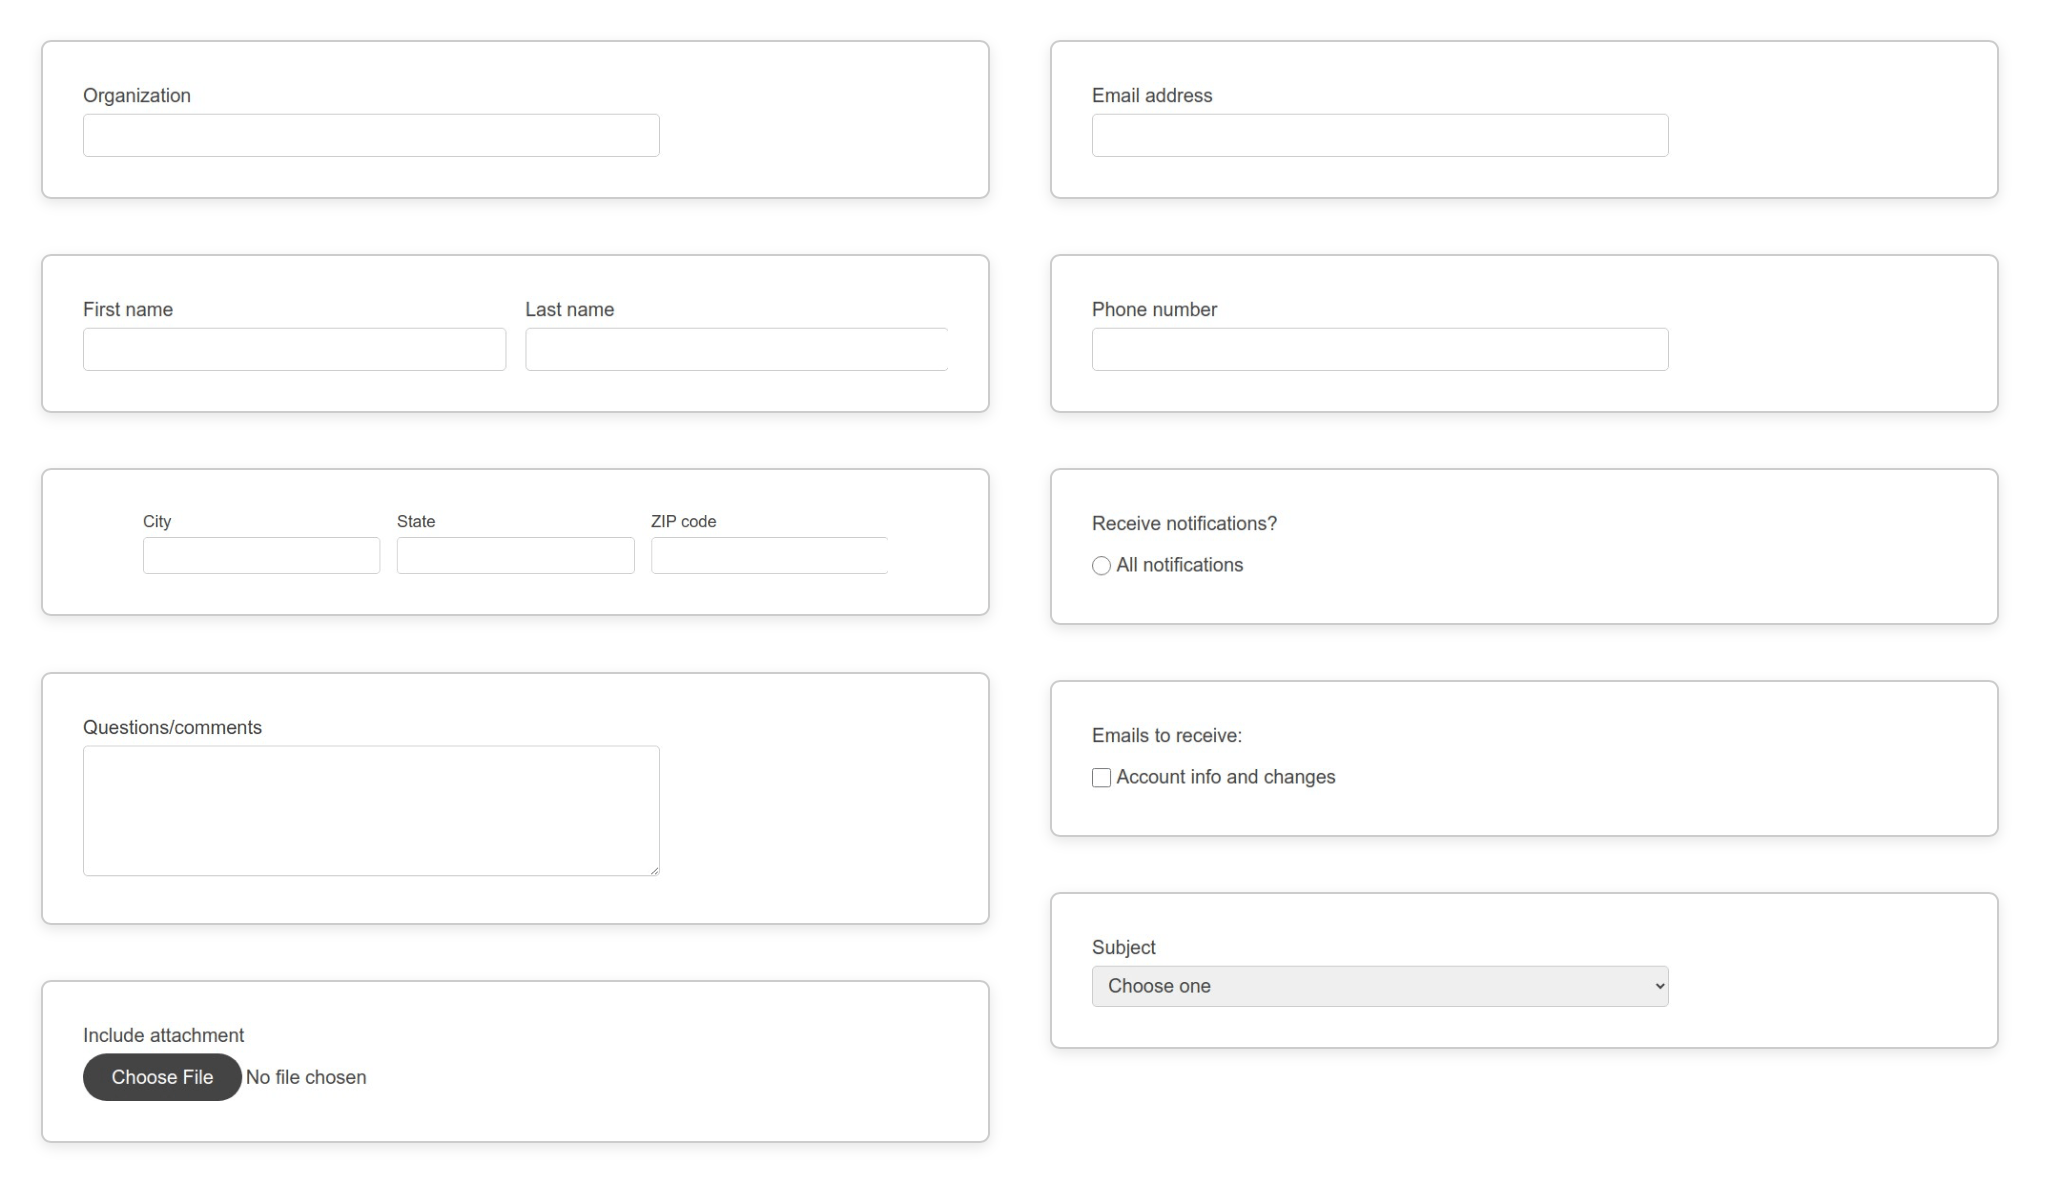
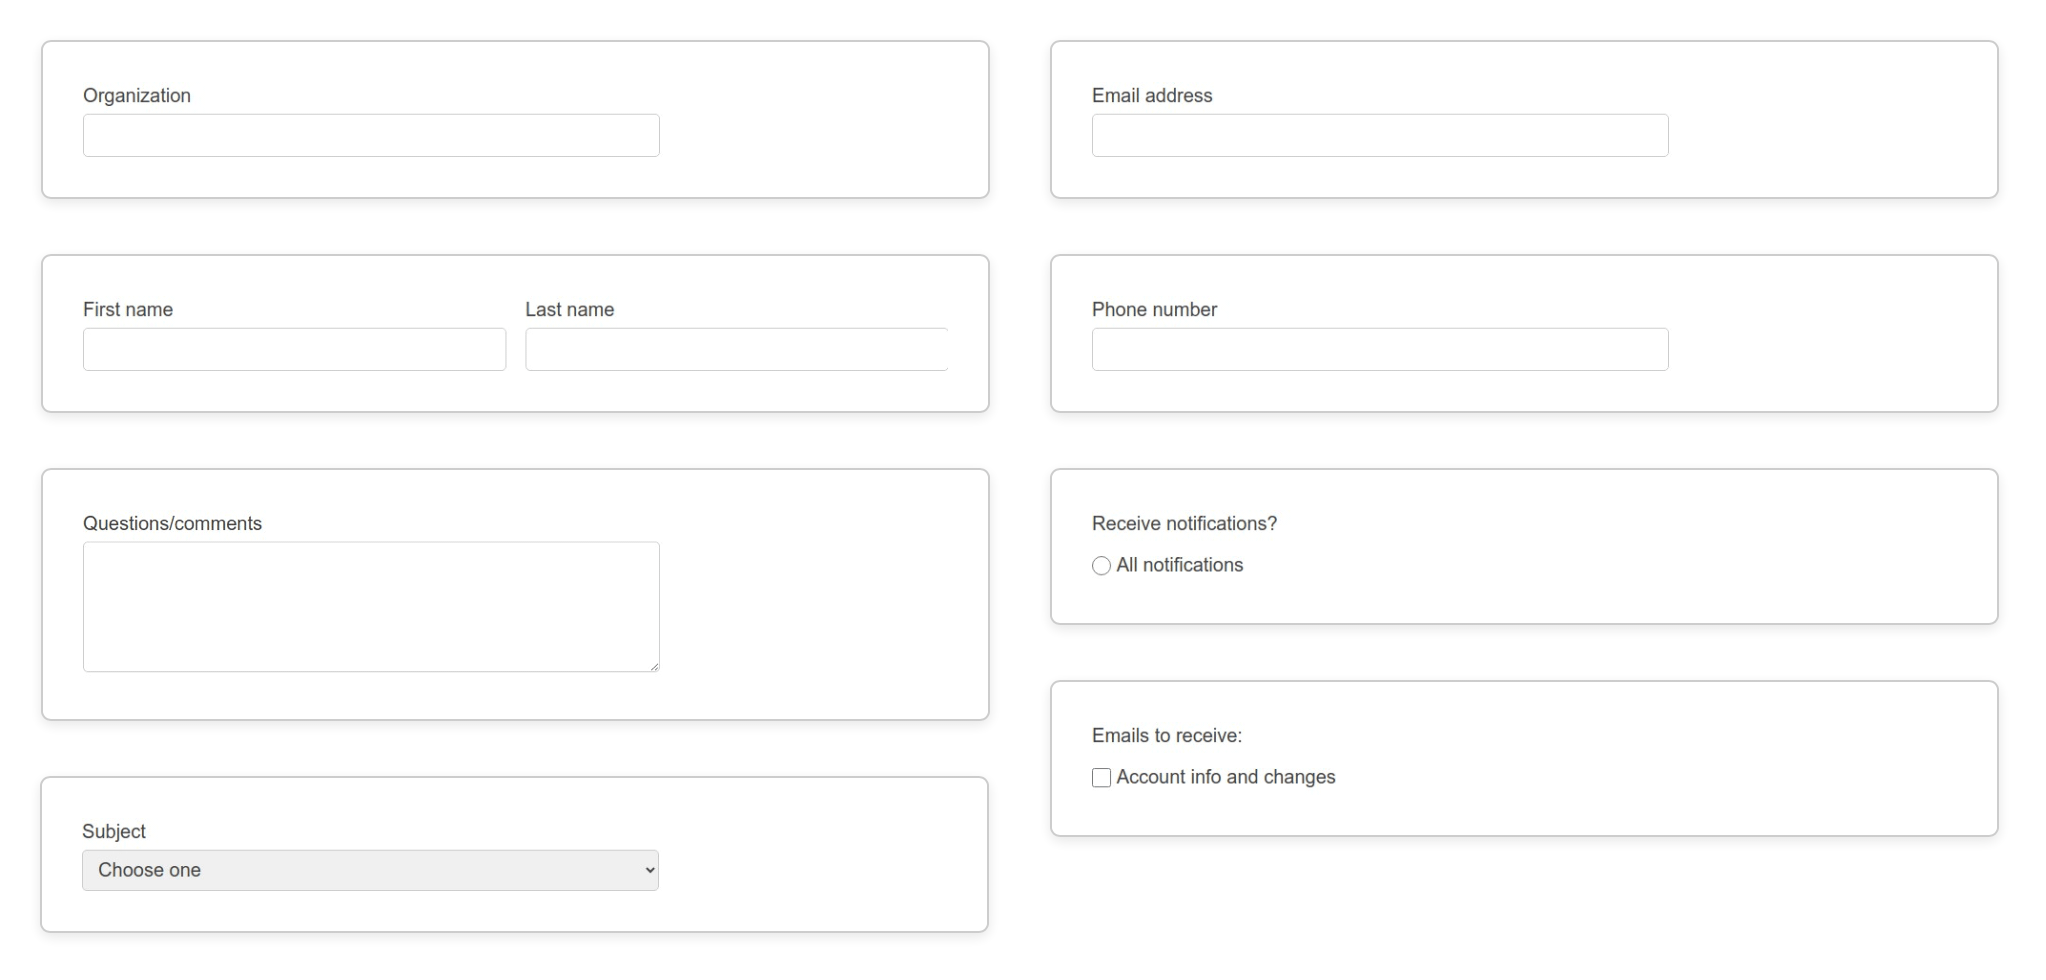
Updates repo name

diff --git a/blocks-starter.html b/blocks-starter.html
@@ -4,7 +4,7 @@
 	<meta charset="utf-8">
 	<meta name="viewport" content="width=device-width, initial-scale=1">
 	<meta name="color-scheme" content="light dark">
-	<title>Starter page components</title>
+	<title>Starter website components</title>
 	<meta name="apple-mobile-web-app-title" content="Page components">
 	<meta property="og:site_name" content="Blocks Edit">
 	<meta property="og:type" content="website">
@@ -361,20 +361,6 @@
 				<label for="tel-input" class="block-edit" data-block="text-field-label">Phone number</label>
 				<input type="tel" name="" id="tel-input" class="block-edit" data-block="tel-field">
 			</div>
-			<div class="col-12 row block-component" data-group="three-column-text-field-component" data-title="Three-column text fields">
-				<div class="col-4">
-					<label for="text-input-4" class="block-edit" data-block="text-field-label-4">City</label>
-					<input type="text" name="" id="text-input-4" class="block-edit" data-block="text-field-4">
-				</div>
-				<div class="col-4">
-					<label for="text-input-5" class="block-edit" data-block="text-field-label-5">State</label>
-					<input type="text" name="" id="text-input-5" class="block-edit" data-block="text-field-5">
-				</div>
-				<div class="col-4">
-					<label for="text-input-6" class="block-edit" data-block="text-field-label-6">ZIP code</label>
-					<input type="text" name="" id="text-input-6" class="block-edit" data-block="text-field-6">
-				</div>
-			</div>
 			<div class="col-12 block-component" data-group="select-field-component" data-title="Select field">
 				<label for="select" class="block-edit" data-block="select-field-label">Subject</label>
 				<select id="select" class="block-edit" data-block="select-field" required>
@@ -382,10 +368,6 @@
 					<option value="">Issue</option>
 					<option value="">Request</option>
 				</select>
-			</div>
-			<div class="col-12 block-component" data-group="file-upload-field-component" data-title="File upload field">
-				<label for="" class="block-edit" data-block="file-upload-field-label">Include attachment</label>
-				<input type="file" class="block-edit" data-block="file-upload-field">
 			</div>
 			<div class="col-12 block-component" data-group="text-area-component" data-title="Text area field">
 				<label for="textarea" class="block-edit" data-block="text-area-field-label">Questions/comments</label>

diff --git a/README.md b/README.md
@@ -1,4 +1,4 @@
-# Starter Page Components
+# Starter Website Components
 ### HTML design system of standard web content components based on hundreds of real-world websites
 
 Made for building brochure sites, landing pages, content articles, and digital forms. With common patterns that can be mixed and matched for any type of web page.
@@ -14,21 +14,21 @@ Made for building brochure sites, landing pages, content articles, and digital f
 ### Content sections ###
 Skimmable sections for a homepage and landing pages.
 
-<img src="starter-pages-components-sections-2.png" />
+<img src="starter-pages-components-sections-2.png">
 
 ### Content listings ###
 A series of related items like articles, products, and events.
 
-<img src="starter-pages-components-sections-4.png" />
+<img src="starter-pages-components-sections-4.png">
 
 ### Article content ###
 Ways to format content elements in an article.
 
-<img src="starter-pages-components-sections-3.png" />
+<img src="starter-pages-components-sections-3.png">
 
 ### Form fields ###
 Fields to collect information, for contact forms, surveys, etc.
 
-<img src="starter-pages-components-sections.png" />
+<img src="starter-pages-components-sections.png">
 
 This theme has been put together by the Blocks Edit team. [Blocks Edit](https://blocksedit.com) makes any HTML template editable in a visual editor. So you can setup your own design for your team to build and edit web pages on their own.